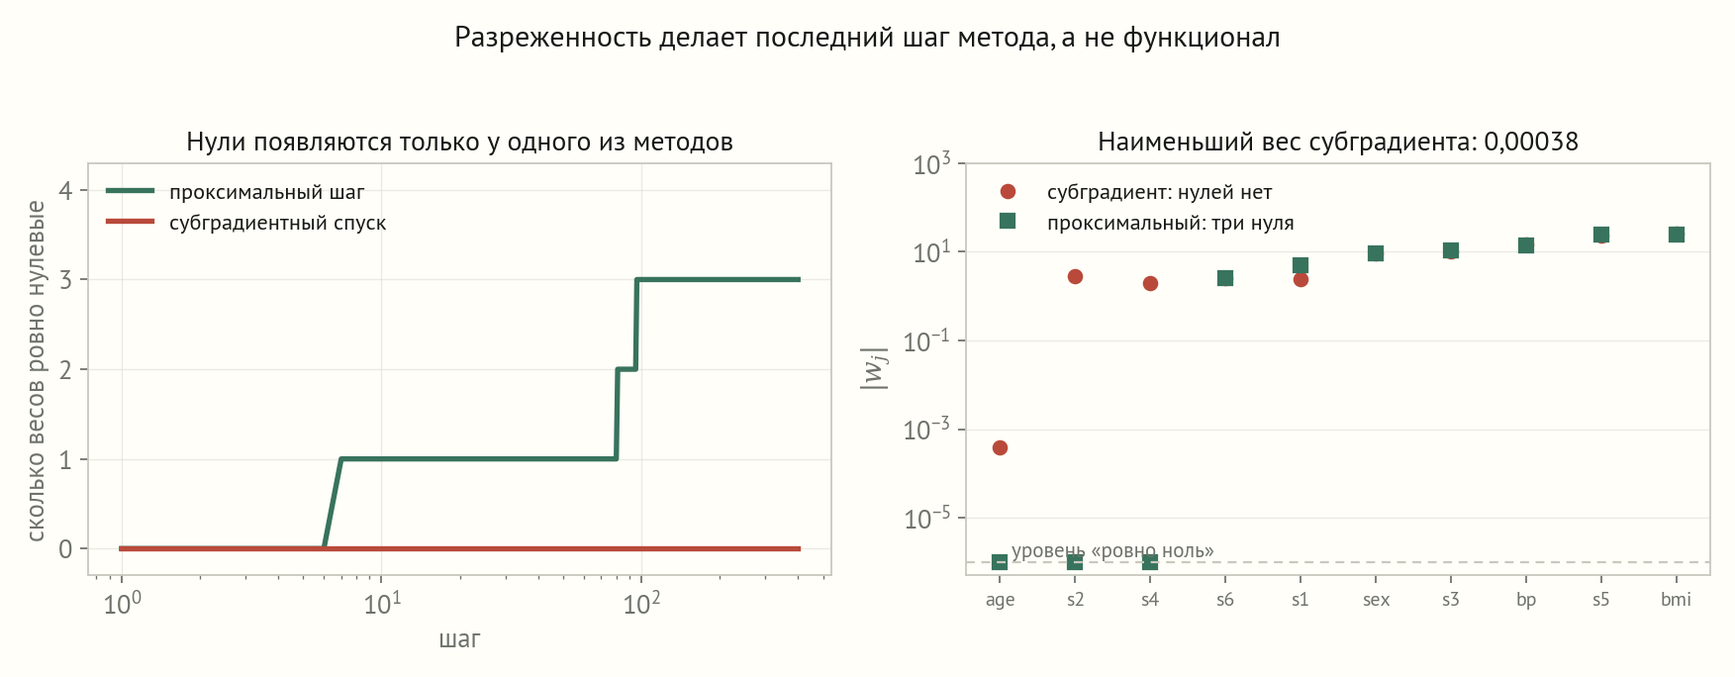
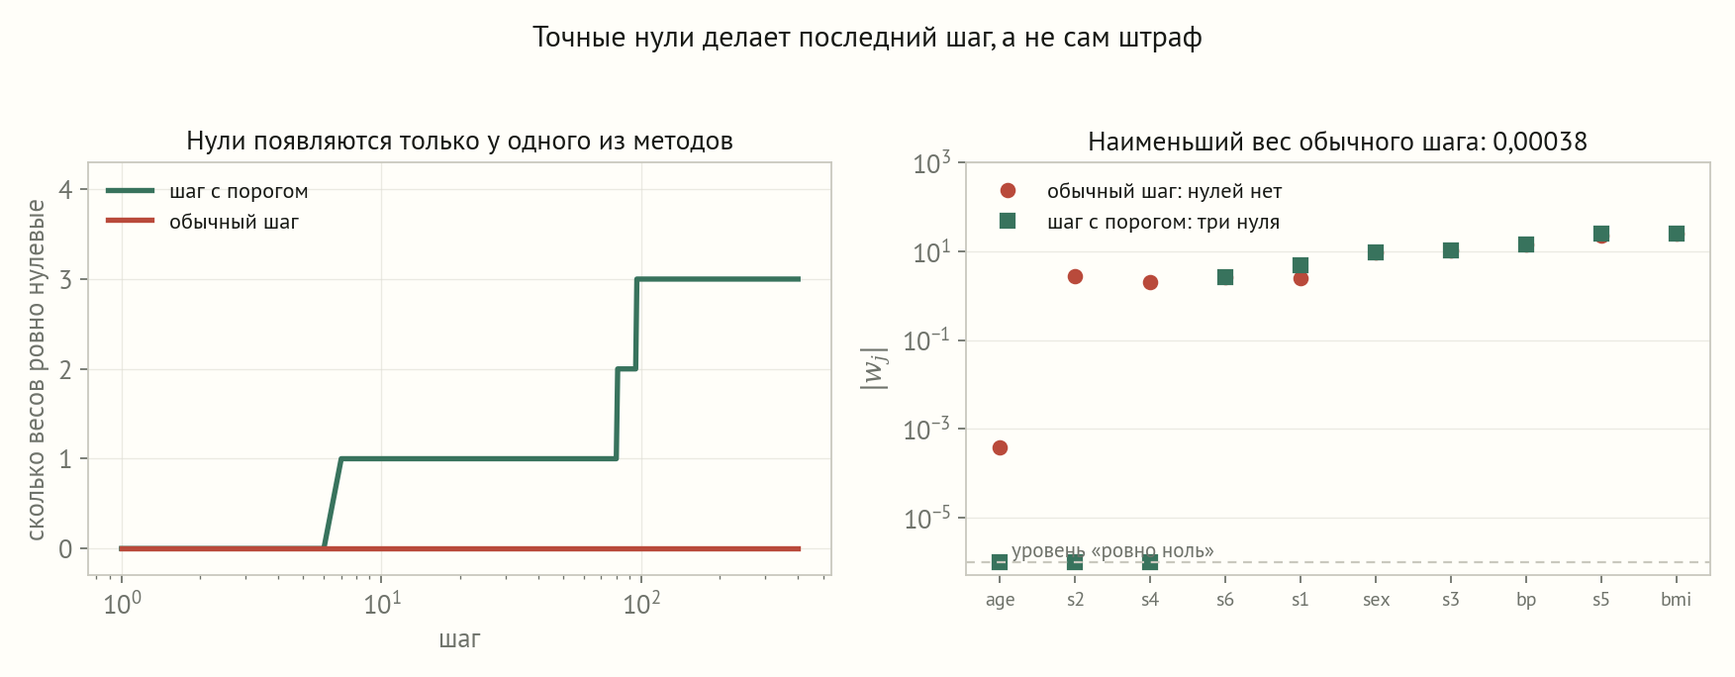
Язык приведён к школьному: из уроков 51, 62, 69, 86 убраны диффуры, схемы Эйлера, субдифференциалы, проксимальные операторы и банаховы сжатия — мысль сохранена, вузовский аппарат снят

diff --git a/scripts/generate_lesson62_visuals.py b/scripts/generate_lesson62_visuals.py
@@ -735,7 +735,7 @@ def check_prose() -> None:
 
 
 def fig_flows() -> None:
-    """Непрерывный поток, его дискретизация и то, где живёт ускорение.
+    """Эталонная траектория, шаги спуска и выигрыш инерции.
 
     Плохо обусловленный квадратичный овраг (kappa = 80). Поток dx/dt = -grad f идёт
     прямо ко дну: у него нет ограничения на шаг. Спуск - явная схема Эйлера для
@@ -800,7 +800,7 @@ def fig_flows() -> None:
     zz = 0.5 * (H[0, 0] * xx ** 2 + 2 * H[0, 1] * xx * yy + H[1, 1] * yy ** 2)
     a1.contour(xx, yy, zz, levels=np.geomspace(0.05, 260, 14), colors=[GRID], linewidths=0.7)
     a1.plot(flow[:, 0], flow[:, 1], color=BLUE, lw=3.4, alpha=0.95,
-            label=r"поток $\dot x=-\nabla f$", zorder=3)
+            label="идеальная траектория", zorder=3)
     a1.plot(gd[:60, 0], gd[:60, 1], color=RED, lw=1.0, marker="o", ms=1.9, alpha=0.9,
             label=f"спуск, шаг {fmt(a_gd, 3)}", zorder=4)
     a1.plot(hb[:60, 0], hb[:60, 1], color=GREEN, lw=1.4, marker="o", ms=2.4, alpha=0.95,
@@ -808,7 +808,7 @@ def fig_flows() -> None:
     a1.plot(0, 0, "*", color=INK, ms=15, zorder=6)
     a1.set_xlim(-0.9, 3.7); a1.set_ylim(-0.9, 2.5)
     a1.set_xticks([]); a1.set_yticks([])
-    a1.set_title(f"Овраг $\\kappa={kappa:.0f}$: поток и две его дискретизации", fontsize=12.5)
+    a1.set_title(f"Овраг $\\kappa={kappa:.0f}$: эталон и два метода", fontsize=12.5)
     a1.legend(frameon=False, fontsize=9.5, loc="upper left")
 
     it = np.arange(len(f_gd))
@@ -817,14 +817,14 @@ def fig_flows() -> None:
     a2.axhline(1e-6, color=LINE, lw=1.0, ls=(0, (4, 3)))
     a2.set_xlim(0, 300); a2.set_ylim(1e-12, 2)
     a2.set_xlabel("число шагов"); a2.set_ylabel("$f/f_0$")
-    a2.set_title("Ускорение живёт в дискретном мире", fontsize=12.5)
+    a2.set_title("Инерция экономит шаги", fontsize=12.5)
     a2.grid(True, color=GRID, lw=0.6, alpha=0.6); a2.set_axisbelow(True)
     a2.legend(frameon=False, fontsize=10, loc="upper right")
     a2.annotate(f"до $10^{{-6}}$: {n_hb6} против {n_gd6} шагов",
                 xy=(n_hb6, 1e-6), xytext=(70, 2e-10), fontsize=10.5, color=MUTED,
                 arrowprops=dict(arrowstyle="->", color=LINE, lw=1.0))
 
-    fig.suptitle("Спуск — это шаг по потоку; момент нужен там, где шаг ограничен", y=1.02, fontsize=13.5)
+    fig.suptitle("Шаг ограничен самым крутым направлением — инерция это обходит", y=1.02, fontsize=13.5)
     fig.tight_layout()
     save(fig, OUT / "flows.png")
 

diff --git a/scripts/generate_lesson51_visuals.py b/scripts/generate_lesson51_visuals.py
@@ -942,8 +942,8 @@ def fig_prox_vs_sub():
     fig, (a1, a2) = plt.subplots(1, 2, figsize=(11.0, 4.0))
 
     it = np.arange(1, steps + 1)
-    a1.plot(it, zeros_prox, color=GREEN, lw=2.4, label="проксимальный шаг")
-    a1.plot(it, zeros_sub, color=RED, lw=2.4, label="субградиентный спуск")
+    a1.plot(it, zeros_prox, color=GREEN, lw=2.4, label="шаг с порогом")
+    a1.plot(it, zeros_sub, color=RED, lw=2.4, label="обычный шаг")
     a1.set_xscale("log")
     a1.set_ylim(-0.3, 4.3); a1.set_yticks([0, 1, 2, 3, 4])
     a1.set_xlabel("шаг"); a1.set_ylabel("сколько весов ровно нулевые")
@@ -954,18 +954,18 @@ def fig_prox_vs_sub():
     idx = np.argsort(np.abs(w_prox))
     xs = np.arange(p)
     a2.semilogy(xs, np.maximum(np.abs(w_sub[idx]), 1e-6), color=RED, lw=0, marker="o",
-                ms=6, label="субградиент: нулей нет")
+                ms=6, label="обычный шаг: нулей нет")
     vis = np.maximum(np.abs(w_prox[idx]), 1e-6)
-    a2.semilogy(xs, vis, color=GREEN, lw=0, marker="s", ms=6, label="проксимальный: три нуля")
+    a2.semilogy(xs, vis, color=GREEN, lw=0, marker="s", ms=6, label="шаг с порогом: три нуля")
     a2.axhline(1e-6, color=LINE, lw=1.0, ls=(0, (4, 3)))
     a2.text(0.15, 1.35e-6, "уровень «ровно ноль»", color=MUTED, fontsize=9.5)
     a2.set_xticks(xs); a2.set_xticklabels([NAMES[i] for i in idx], fontsize=9)
     a2.set_ylabel("$|w_j|$"); a2.set_ylim(5e-7, 1e3)
-    a2.set_title(f"Наименьший вес субградиента: {min_abs_sub:.5f}".replace(".", ","), fontsize=12.5)
+    a2.set_title(f"Наименьший вес обычного шага: {min_abs_sub:.5f}".replace(".", ","), fontsize=12.5)
     a2.grid(True, color=GRID, lw=0.6, alpha=0.6, axis="y"); a2.set_axisbelow(True)
     a2.legend(frameon=False, fontsize=10, loc="upper left")
 
-    fig.suptitle("Разреженность делает последний шаг метода, а не функционал", y=1.03, fontsize=13.5)
+    fig.suptitle("Точные нули делает последний шаг, а не сам штраф", y=1.03, fontsize=13.5)
     fig.tight_layout()
     save(fig, OUT / "prox_vs_sub.png")
     print(f"prox_vs_sub: zeros {zeros_sub[-1]} vs {zeros_prox[-1]}, obj {obj_sub[-1]:.2f} vs {obj_prox[-1]:.2f}, min|w_sub|={min_abs_sub:.5f}")

diff --git a/content/lessons/62.md b/content/lessons/62.md
@@ -107,53 +107,44 @@ $\kappa=10$: $\rho=9/11=0{,}818$, а $0{,}818^{60}\approx5{,}9\cdot10^{-6}$.
 :::
 ::::
 
-## Непрерывный взгляд: спуск как шаг по потоку
+## Почему шаг нельзя просто увеличить
 
-Отступим на шаг и спросим: а что вообще делает спуск, если шаг устремить к нулю?
-Запишем одно обновление и поделим на $\eta$:
+Мы уже знаем, что шаг ограничен: крутая координата требует $\eta<2/\kappa$, иначе
+прогрессия расходится. Теперь спросим, чего мы из-за этого лишаемся.
 
-$$
-\frac{x_{k+1}-x_k}{\eta}=-\nabla f(x_k).
-$$
+Представим, что шаги сделаны совсем мелкими, а считаем мы их очень часто. Точки
+сольются в гладкую кривую, которая просто скатывается ко дну, всё время поворачивая в
+сторону наискорейшего спуска. Назовём её идеальной траекторией и будем держать как
+эталон: реальный метод идёт по ней рывками и ровно настолько хорош, насколько точно за
+ней успевает.
 
-Слева стоит разностное отношение. При $\eta\to0$ оно превращается в производную, и
-дискретный метод становится дифференциальным уравнением
+Сравнение эталона с рывками сразу показывает, где потери. У идеальной кривой **нет
+ограничения на длину шага** — она просто скользит по склону. У метода оно есть, и
+диктует его самое крутое направление, каким бы редким оно ни было. Вдоль пологого дна
+оврага разрешённый шаг оказывается чудовищно мал.
 
-$$
-\dot x(t)=-\nabla f\bigl(x(t)\bigr),
-$$
-
-которое называют градиентным потоком. Спуск — это явная схема Эйлера для этого
-потока, а длина шага $\eta$ — грубость дискретизации. Отсюда видно то, что раньше
-приходилось принимать на веру: у потока нет никакого ограничения на скорость, а у
-схемы есть. Шаг обязан удовлетворять $\eta<2/L$, иначе разностная схема расходится —
-не потому, что задача трудная, а потому, что мы слишком грубо приблизили траекторию.
-
-:::figure{src="/figures/lessons/62/flows.png" id="fig-62-2" title="Рис. 62.2. Поток идёт ко дну, а шаги за ним не поспевают" alt="Слева линии уровня вытянутого оврага: синяя гладкая кривая потока идёт прямо ко дну, красные мелкие шаги спуска ложатся на неё, зелёная ломаная тяжёлого шарика широко пересекает овраг и достигает минимума заметно раньше; справа логарифмический график падения ошибки по числу шагов, где кривая тяжёлого шарика идёт круто вниз и достигает уровня десять в минус шестой за сорок четыре шага против двухсот семидесяти семи у спуска"}
-Овраг с обусловленностью $\kappa=80$. Синяя кривая — сам поток: он идёт ко дну по
-дуге, не оглядываясь на длину шага. Красные точки — спуск с оптимальным шагом
-$2/(\mu+L)=0{,}025$: они послушно ложатся на поток, потому что шаг мал. Зелёная
+:::figure{src="/figures/lessons/62/flows.png" id="fig-62-2" title="Рис. 62.2. Идеальная кривая идёт ко дну, а шаги за ней не поспевают" alt="Слева линии уровня вытянутого оврага: синяя гладкая кривая идёт прямо ко дну, красные мелкие шаги спуска ложатся на неё, зелёная ломаная тяжёлого шарика широко пересекает овраг и достигает минимума заметно раньше; справа логарифмический график падения ошибки по числу шагов, где кривая тяжёлого шарика идёт круто вниз и достигает уровня десять в минус шестой за сорок четыре шага против двухсот семидесяти семи у спуска"}
+Овраг с обусловленностью $\kappa=80$. Синяя линия — идеальная траектория: она идёт ко
+дну по дуге, не оглядываясь на длину шага. Красные точки — спуск с наилучшим шагом
+$0{,}025$: они послушно ложатся на неё, потому что шаг мал. Зелёная
 ломаная — тяжёлый шарик: он размашисто пересекает овраг, но приходит к минимуму за
 $44$ шага против $277$ у спуска.
 :::
 
-Здесь прячется неожиданное. В непрерывном времени **ускорять нечего**: поток и так
-идёт с той скоростью, какую позволяет геометрия задачи, и никакая инерция его не
-подгонит. Ускорение — свойство не задачи, а дискретизации. Шаг упёрт в $2/L$, то есть
-в самое крутое направление; вдоль пологого дна оврага этот шаг чудовищно мал, и метод
-делает сотни осторожных шажков там, где поток проходит одним махом. Инерция позволяет
-эффективно удлинить шаг вдоль дна, не нарушив устойчивости поперёк.
+Отсюда неожиданный вывод: **ускорять надо не движение, а шаги**. Идеальную кривую
+подгонять бессмысленно — она и так скатывается со скоростью, какую позволяет форма
+чаши. А вот метод делает сотни осторожных шажков там, где кривая проходит одним махом.
+Значит, задача не «идти быстрее», а «складывать много мелких шагов в один
+длинный вдоль дна, не расшатав движение поперёк».
 
-Второй сюрприз — в названии. Добавив к потоку массу и трение, получим уравнение
-
-$$
-\ddot x+\gamma\,\dot x+\nabla f(x)=0,
-$$
-
-то есть буквально шарик, катящийся в чаше в вязкой среде. Его дискретизация и есть
-метод с моментом: слагаемое $\beta(x_k-x_{k-1})$ — это скорость, а $\gamma$ — трение,
-которое не даёт разогнаться до бесконечности. «Момент» здесь не метафора: это
-механическая инерция, записанная разностями.
+Ровно это и делает инерция. Обычный шарик, скатываясь в чашу, не останавливается на
+каждом миллиметре, чтобы заново посмотреть на уклон: у него есть скорость, и он
+переносит её из прошлого в будущее. Метод с моментом устроен так же — слагаемое
+$\beta\,(x_k-x_{k-1})$ и есть накопленная скорость, а множитель $\beta<1$ играет роль
+трения, которое не даёт разогнаться до бесконечности. Поперёк оврага скорость на
+соседних шагах меняет знак и гасит сама себя, а вдоль дна она копится шаг за шагом.
+«Момент» здесь не красивое слово: это обычная механическая инерция, записанная в двух
+строчках.
 
 :::sidenote{title="Откуда берётся корень" label="Счёт"}
 Спуск с наилучшим шагом сокращает ошибку в $\bigl(\tfrac{\kappa-1}{\kappa+1}\bigr)^2$
@@ -166,16 +157,16 @@ $$
 
 ::::exercise{title="Почему шаг нельзя просто удвоить"}
 На квадратичной задаче с $L=80$ спуск устойчив при $\eta<2/L=0{,}025$. Ученик
-рассуждает: «поток идёт ко дну по дуге, значит, надо просто взять шаг побольше и
-пройти её быстрее». Что произойдёт при $\eta=0{,}03$ и почему это не лечится удачным
+рассуждает: «идеальная кривая идёт ко дну по дуге, значит, надо просто взять шаг
+побольше и пройти её быстрее». Что произойдёт при $\eta=0{,}03$ и почему это не лечится удачным
 стартом?
 :::answer
 Вдоль крутого направления с кривизной $L=80$ одно обновление умножает отклонение на
 $|1-\eta L|=|1-2{,}4|=1{,}4$. Каждый шаг увеличивает ошибку в этом направлении в
-$1{,}4$ раза — метод расходится по экспоненте. Старт не спасает: даже если начать
+$1{,}4$ раза — отклонение растёт как геометрическая прогрессия. Старт не спасает: даже если начать
 точно на дне оврага, любая ошибка округления в крутом направлении будет расти. Причина
-не в задаче, а в схеме: шаг $0{,}03$ грубо приближает поток на участке с большой
-кривизной, и разностная схема теряет устойчивость. Лечение — не больший шаг, а другая
+не в задаче, а в длине шага: $0{,}03$ слишком много для направления с кривизной
+$L=80$. Лечение — не больший шаг, а другая
 схема: либо неявная (шаг по будущему градиенту), либо с моментом, либо адаптивная,
 которая нормирует шаг покоординатно.
 :::

diff --git a/content/lessons/69.md b/content/lessons/69.md
@@ -655,8 +655,8 @@ $$
 подождать никогда не хуже, чем его отсутствие. «Эксцессивная» — не возрастающая в
 среднем вдоль процесса, аналог условия $V\ge\mathbb E[V(S_1)]$. «Наименьшая» —
 ровно то же, что неподвижная точка оператора Беллмана, к которой сходятся
-итерации сверху. Три разных языка — банахово сжатие, наименьшая мажоранта,
-принцип оптимальности — описывают один и тот же объект.
+итерации сверху. Три разных языка — сжимающее отображение, наименьшая мажоранта
+и принцип оптимальности — описывают один и тот же объект.
 
 :::sidenote{title="Дынкин без марковских цепей" label="Штрих к портрету"}
 Имя Дынкина знакомо и алгебраистам: диаграммы Дынкина классифицируют простые

diff --git a/content/lessons/86.md b/content/lessons/86.md
@@ -555,8 +555,9 @@ $4{,}34$, $4{,}21$, $3{,}79$, $3{,}29$. Соответствие выходит 
 
 ## Непрерывный предел: обратное время
 
-Если шаги устремить к нулю, прямой процесс становится стохастическим
-дифференциальным уравнением
+Если шаги устремить к нулю, зашумление перестаёт быть цепочкой картинок и
+становится непрерывным движением. Записывают его так (запись читается как «за
+маленькое время $dt$ точка сдвинулась на снос плюс случайный толчок»):
 
 $$
 dx=f(x,t)\,dt+g(t)\,dW_t,
